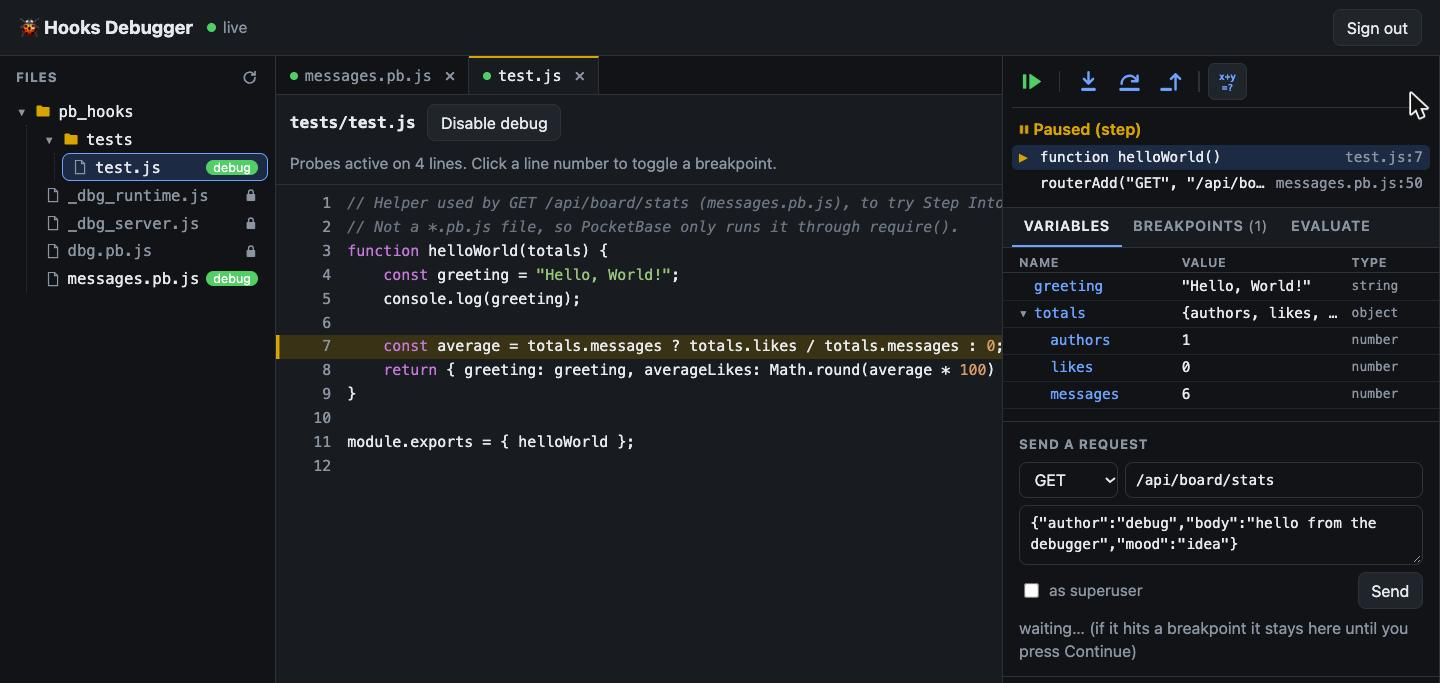
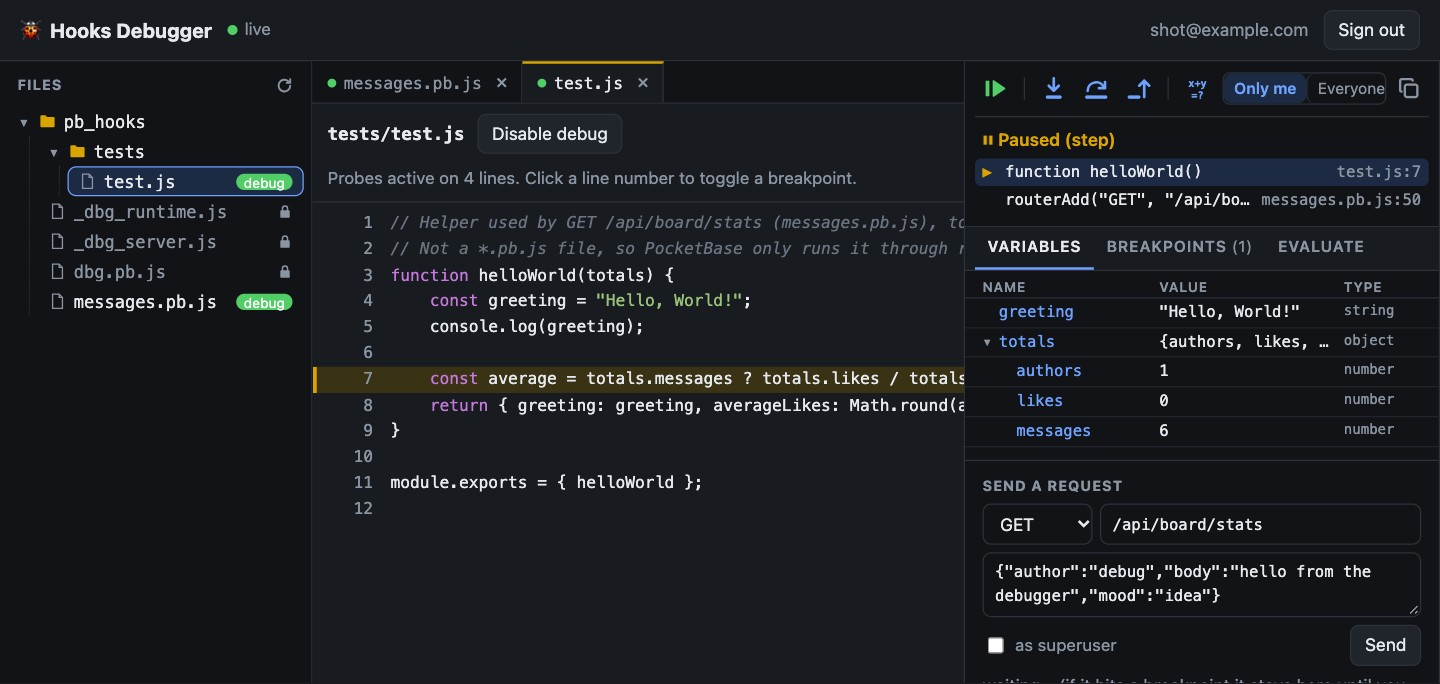
Debugger: Only me / Everyone as a toggle; refresh the screenshot
The "Pause for" select becomes a two-button toggle, so both choices are
visible at a glance. The README screenshot shows it.

diff --git a/pb_public/debug/index.html b/pb_public/debug/index.html
@@ -124,8 +124,10 @@
     .ib.plain { color: var(--muted); }
     .iconbar { display: flex; align-items: center; gap: 2px; }
     .iconbar .sep { width: 1px; height: 18px; background: var(--border); margin: 0 5px; }
-    .pause-for { display: flex; align-items: center; gap: 6px; color: var(--muted); font-size: .8rem; white-space: nowrap; }
-    .pause-for select { padding: 2px 4px; font-size: .8rem; }
+    .pause-for { display: flex; border: 1px solid var(--border); border-radius: 6px; overflow: hidden; white-space: nowrap; }
+    .pause-for button { border: 0; background: none; padding: 3px 8px; font-size: .78rem; color: var(--muted); cursor: pointer; }
+    .pause-for button + button { border-left: 1px solid var(--border); }
+    .pause-for button[aria-pressed="true"] { background: var(--accent-soft); color: var(--accent); font-weight: 600; }
 
     /* Files (tree) */
     .pane-bar { display: flex; align-items: center; justify-content: space-between; padding: 6px 8px 4px 0; }
@@ -368,13 +370,10 @@
               <svg viewBox="0 0 16 16" fill="currentColor"><text x="8" y="7" text-anchor="middle" font-size="6.6" font-weight="700" font-family="ui-monospace, Menlo, monospace">x+y</text><text x="8" y="14.6" text-anchor="middle" font-size="6.6" font-weight="700" font-family="ui-monospace, Menlo, monospace">=?</text></svg>
             </button>
             <span class="spacer"></span>
-            <label class="pause-for" title="Only me: pause only requests from this browser (dbg cookie), with the X-Dbg header, or from a superuser. Hooks without a request (cron, model hooks) need Everyone.">
-              Pause for
-              <select id="pause-for">
-                <option value="me">Only me</option>
-                <option value="all">Everyone</option>
-              </select>
-            </label>
+            <div class="pause-for" id="pause-for" role="group" aria-label="Pause for" title="Only me: pause only requests from this browser (dbg cookie), with the X-Dbg header, or from a superuser. Hooks without a request (cron, model hooks) need Everyone.">
+              <button data-v="me" aria-pressed="true">Only me</button>
+              <button data-v="all" aria-pressed="false">Everyone</button>
+            </div>
             <button class="ib plain" id="btn-token" title="Copy the X-Dbg header (for curl or an app on another origin)" aria-label="Copy the X-Dbg header">
               <svg viewBox="0 0 16 16" fill="none" stroke="currentColor" stroke-width="1.5" stroke-linejoin="round"><rect x="5.5" y="5.5" width="8" height="8" rx="1.5"/><path d="M10.5 3.5v-.5a1 1 0 0 0-1-1h-6a1 1 0 0 0-1 1v6a1 1 0 0 0 1 1h.5"/></svg>
             </button>
@@ -480,8 +479,15 @@
     const HEARTBEAT_MS = 15 * 1000
     let heartbeatTimer = null
 
+    let pauseFor = 'me' // 'me' | 'all'
+
     function pauseForAll() {
-      return $('pause-for').value === 'all'
+      return pauseFor === 'all'
+    }
+
+    function setPauseFor(value) {
+      pauseFor = value === 'all' ? 'all' : 'me'
+      $('pause-for').querySelectorAll('button').forEach((b) => b.setAttribute('aria-pressed', String(b.dataset.v === pauseFor)))
     }
 
     // Lax: also sent when you open a URL of this site in a new tab.
@@ -1368,11 +1374,14 @@
       if (gut) toggleBreakpoint(Number(gut.parentElement.dataset.line))
     })
     try {
-      if (localStorage.getItem('dbg.pauseFor') === 'all') $('pause-for').value = 'all'
+      setPauseFor(localStorage.getItem('dbg.pauseFor'))
     } catch {}
-    $('pause-for').addEventListener('change', () => {
+    $('pause-for').addEventListener('click', (e) => {
+      const b = e.target.closest('button')
+      if (!b || b.dataset.v === pauseFor) return
+      setPauseFor(b.dataset.v)
       try {
-        localStorage.setItem('dbg.pauseFor', $('pause-for').value)
+        localStorage.setItem('dbg.pauseFor', pauseFor)
       } catch {}
       if (heartbeatTimer) heartbeat()
     })

diff --git a/README.md b/README.md
@@ -18,7 +18,7 @@ It only uses standard JSVM APIs (`sleep()`, `$os`, `$app.store()`, realtime), so
 - **Pause for: Only me** (default) pauses only your own requests: those from the browser running the debugger (it sets a secret `dbg` cookie), with its `X-Dbg` header (copy it for curl or an app on another origin), or from a superuser. Other users' requests run through breakpoints. Switch to **Everyone** to pause any request.
 - A built-in request runner, so you can trigger hooks without leaving the page.
 
-![The debugger paused inside helloWorld() in tests/test.js, with the call stack, expanded variables and the debug toolbar](docs/screenshot.jpg)
+![The debugger paused inside helloWorld() in tests/test.js, with the call stack, expanded variables, the debug toolbar and the Only me / Everyone toggle](docs/screenshot.jpg)
 
 ## Quick start
 
